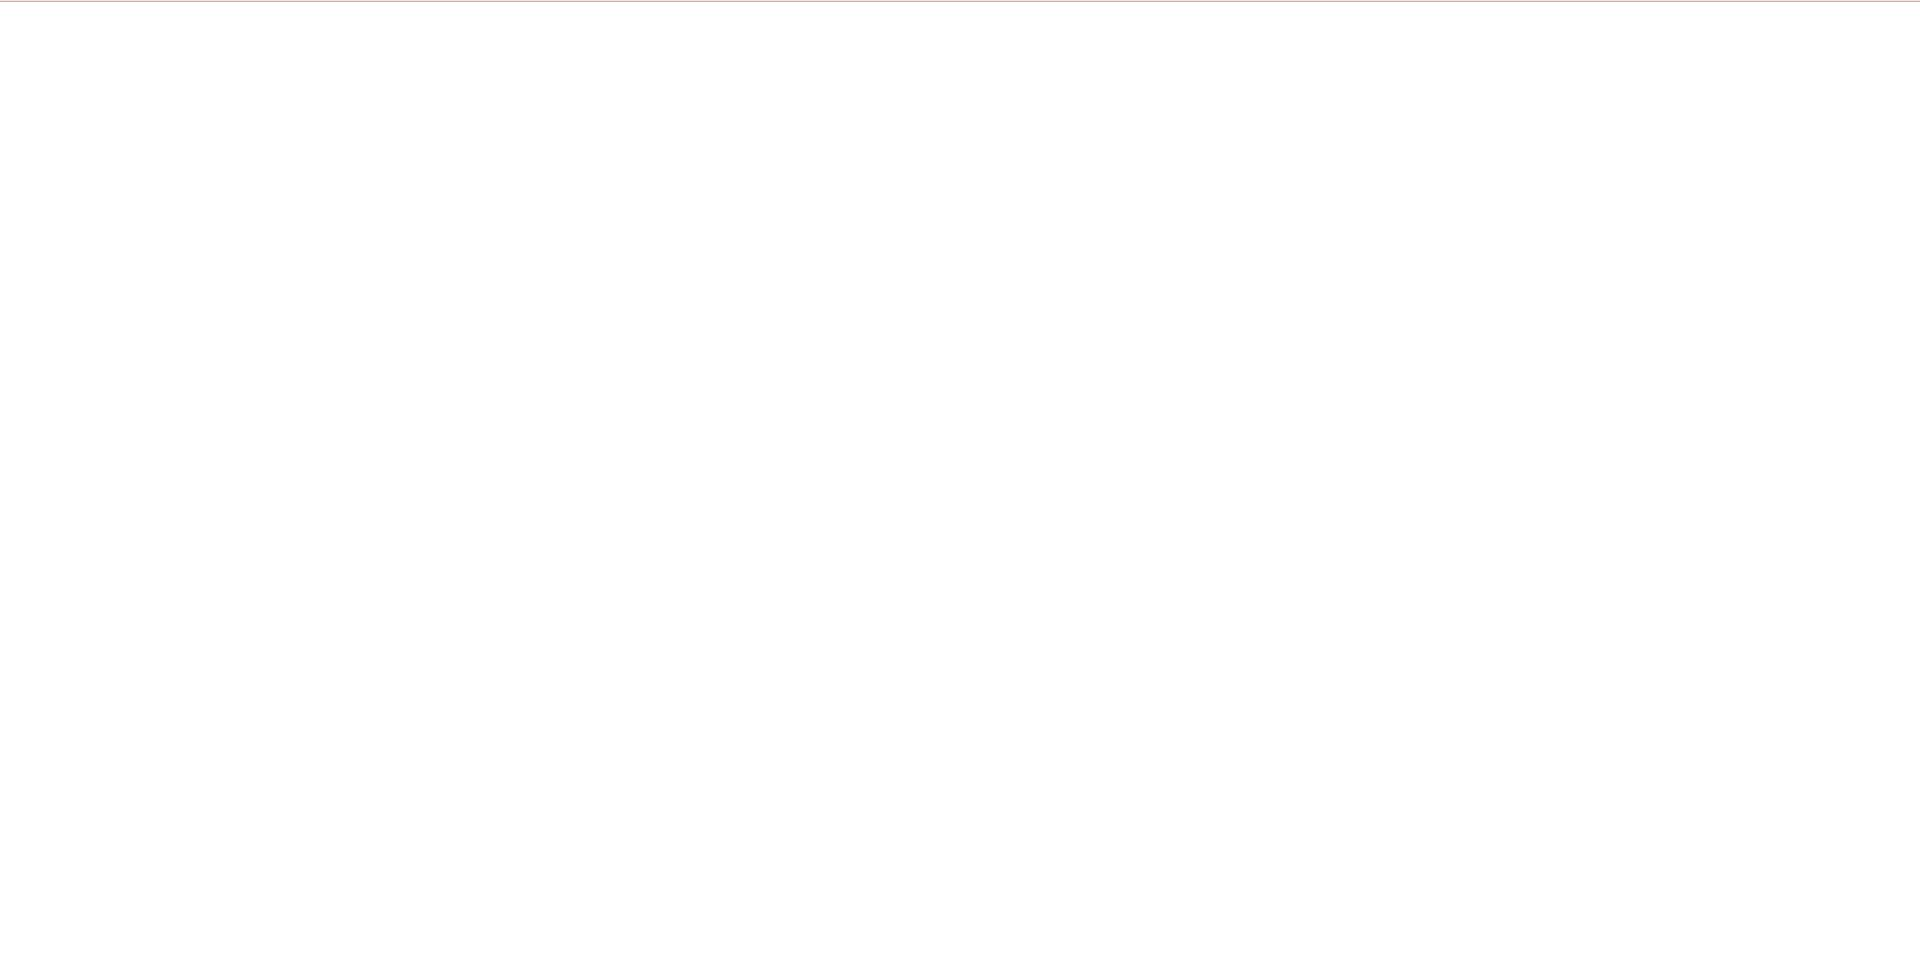
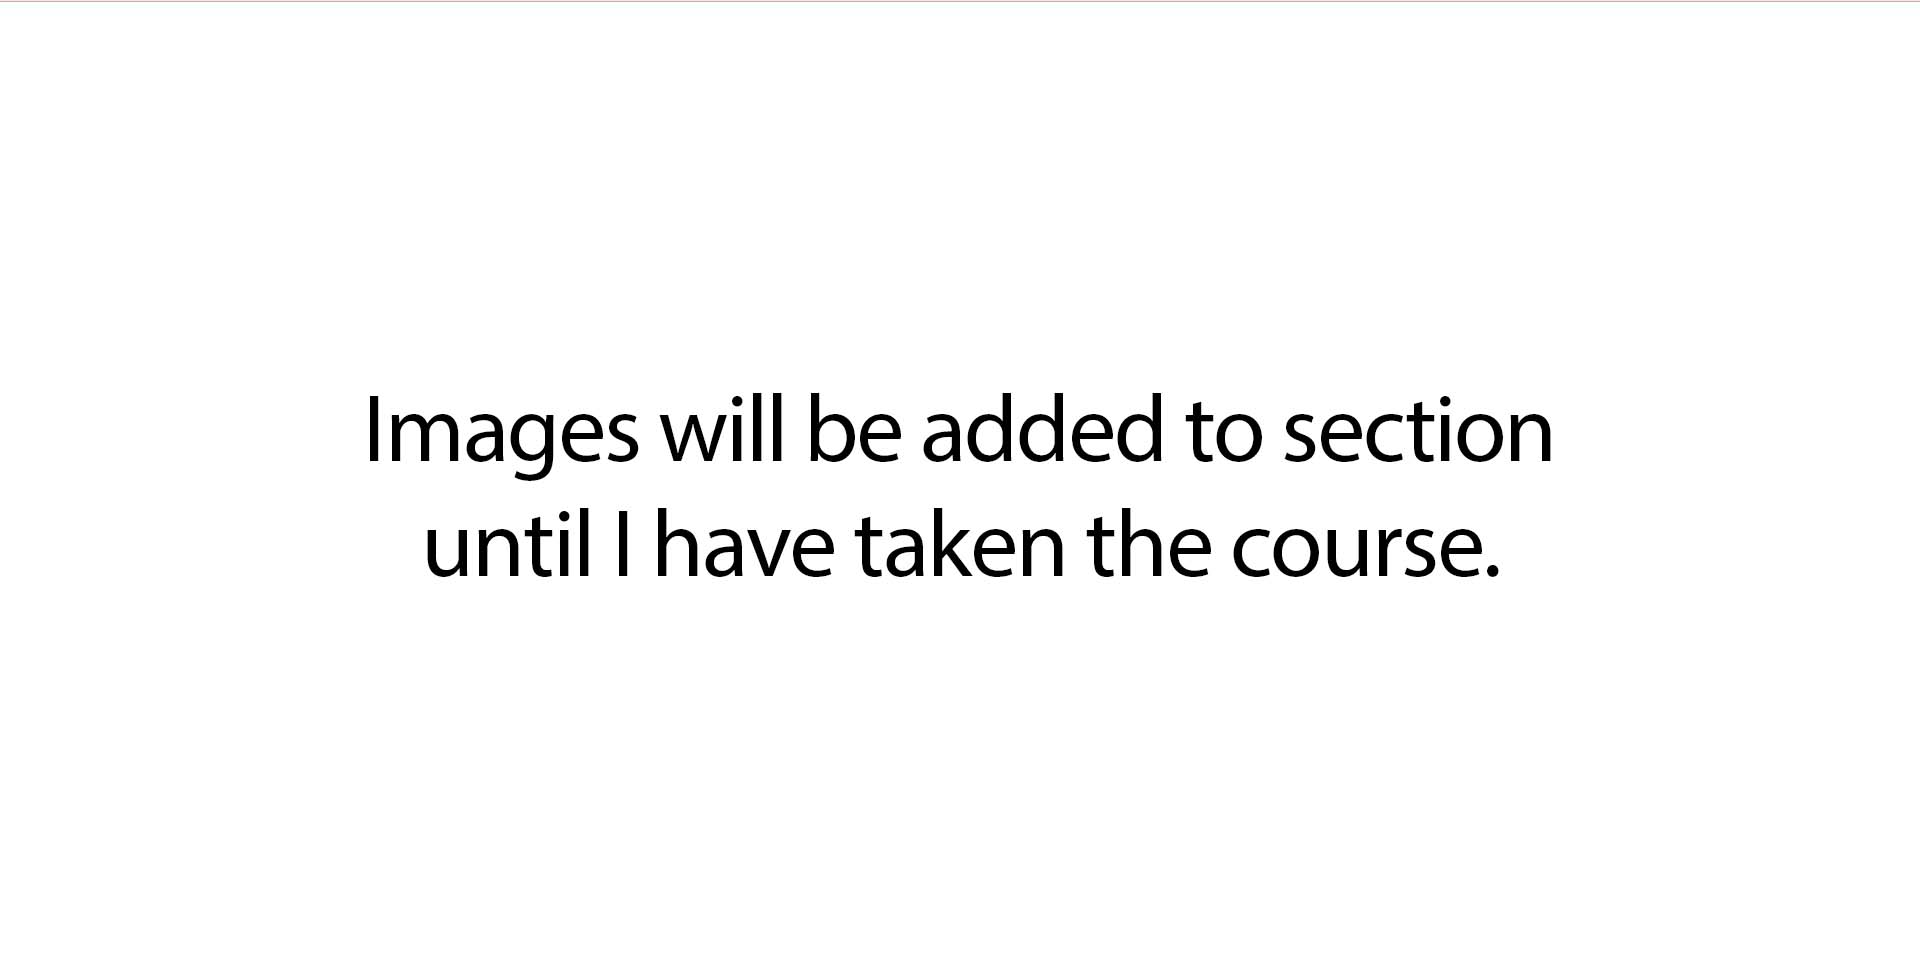
Website Updated
Merged Home and About me page.  Updated blank image to have words, and updated ilp excel sheet link to allow anyone to view it.

Changed region(s): [[0.1875, 0.4016, 0.8125, 0.4943], [0.2188, 0.5252, 0.7812, 0.6179]]

diff --git a/index.html b/index.html
@@ -23,7 +23,6 @@
         <li><a class="navbar-brand" href="index.html">Home</a></li>
         <li><a class="navbar-brand" href="ilp.html">ILP</a></li>
         <li><a class="navbar-brand" href="cdmlo.html">CD MLO</a></li>
-        <li><a class="navbar-brand" href="about-me.html">About Me</a></li>
       </ul>
     </div>
   </nav>
@@ -47,6 +46,24 @@
     communicating and collaborating with other designers, artists and engineers in creating and
     publishing games. The concentration courses are Game Design and Interactive Media I, Environment
     Modeling, Character Design, Level Design, Character Animation, and Game Design and Interactive Media II.<p>
+
+    <hr>
+
+    <div class="padding">
+      <div class="flex-container">
+        <div class="flex-item-left">
+          <p>My name is Yulitsa Pantoja and I'm currently a junior at CSUMB as of Fall 2021.
+          I’m majoring in  Communication Design with a concentration in Game Design.  I enrolled at CSUMB in Fall 2019
+          as a Freshman and I’m expected to graduate in Spring 2023.  I grew up in Greenfield and currently live with my
+          family and I have two adorable cats named Kirby and Chi since October 2014.</p><br>
+          <p><b>Major:</b> Communication Design</p>
+          <p><b>Concentration:</b> Game Design</p><br>
+        </div>
+        <div class="flex-item-right">
+          <img id="smaller" src="./img/yuli.jpg">
+        </div>
+      </div>
+    </div>
 
 
   </div>

diff --git a/cdmlo.html b/cdmlo.html
@@ -28,7 +28,6 @@
           <li><a class="navbar-brand" href="index.html">Home</a></li>
           <li><a class="navbar-brand" href="ilp.html">ILP</a></li>
           <li><a class="navbar-brand" href="cdmlo.html">CD MLO</a></li>
-          <li><a class="navbar-brand" href="about-me.html">About Me</a></li>
         </ul>
       </div>
     </nav>

diff --git a/ilp.html b/ilp.html
@@ -28,7 +28,6 @@
           <li><a class="navbar-brand" href="index.html">Home</a></li>
           <li><a class="navbar-brand" href="ilp.html">ILP</a></li>
           <li><a class="navbar-brand" href="cdmlo.html">CD MLO</a></li>
-          <li><a class="navbar-brand" href="about-me.html">About Me</a></li>
         </ul>
       </div>
     </nav>
